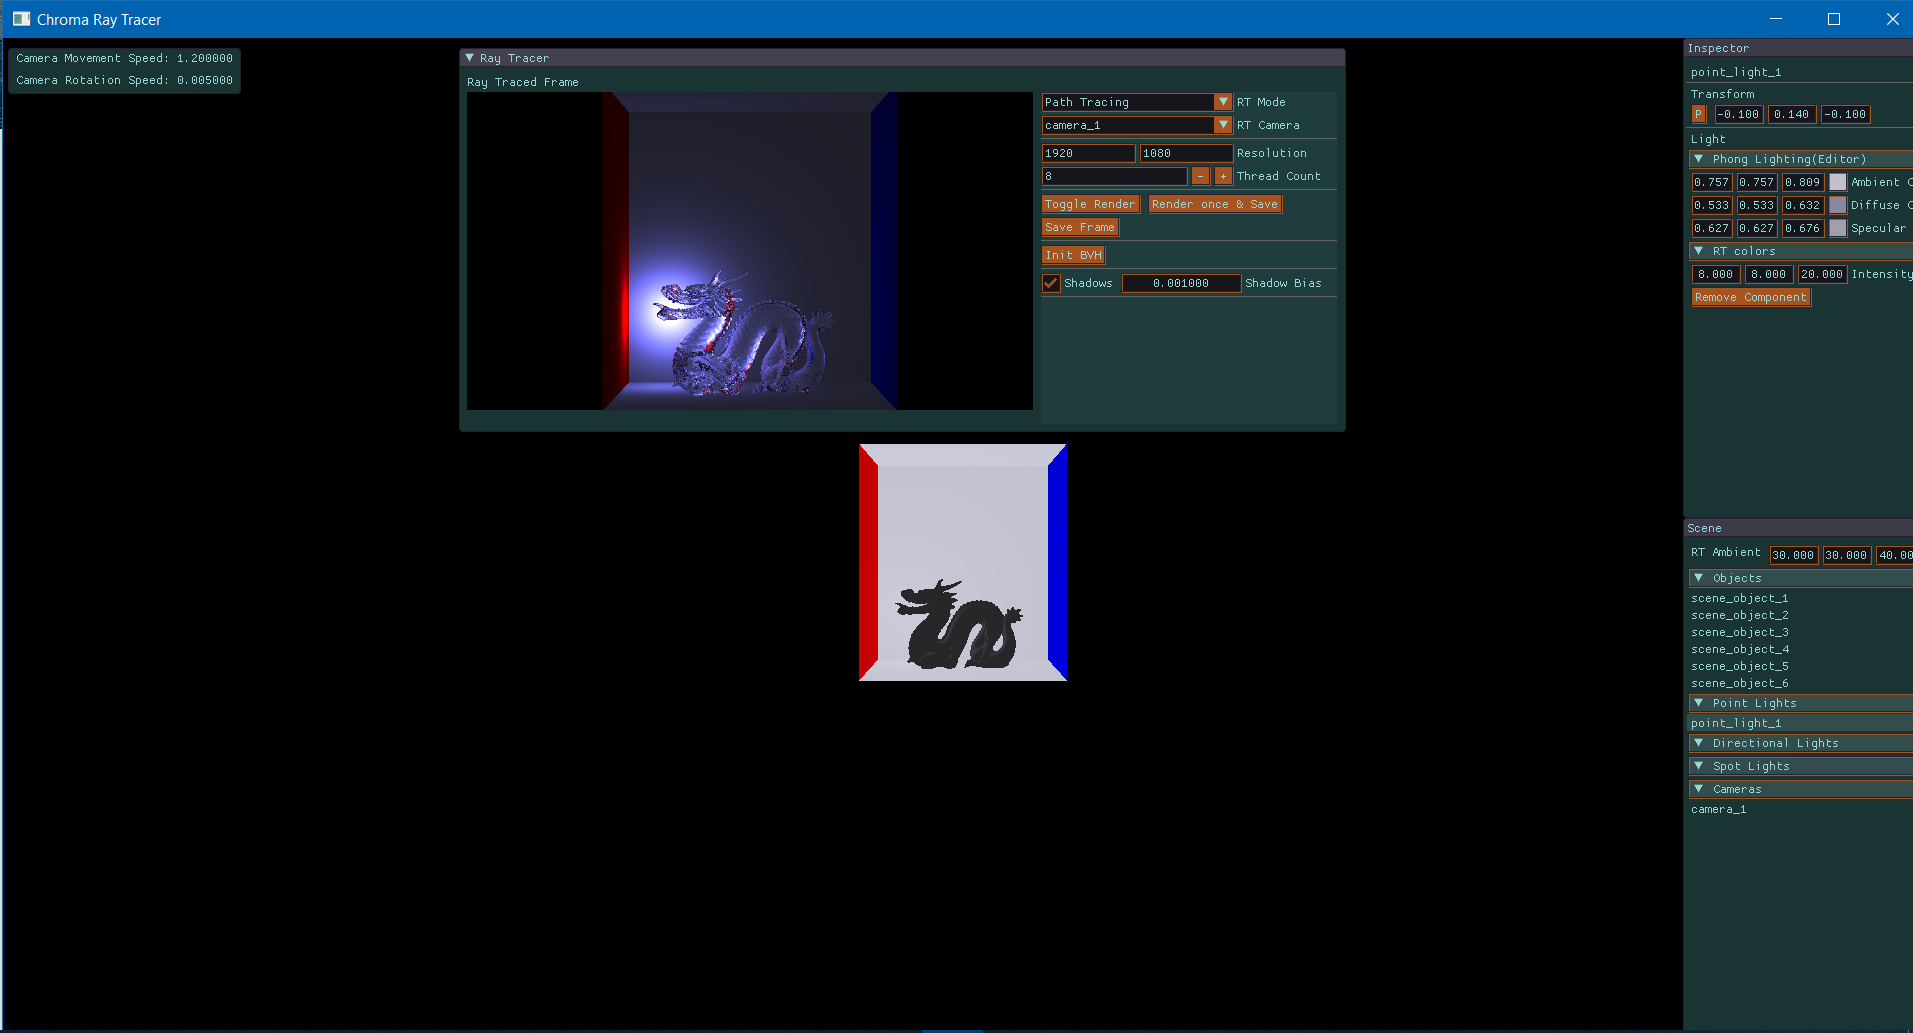
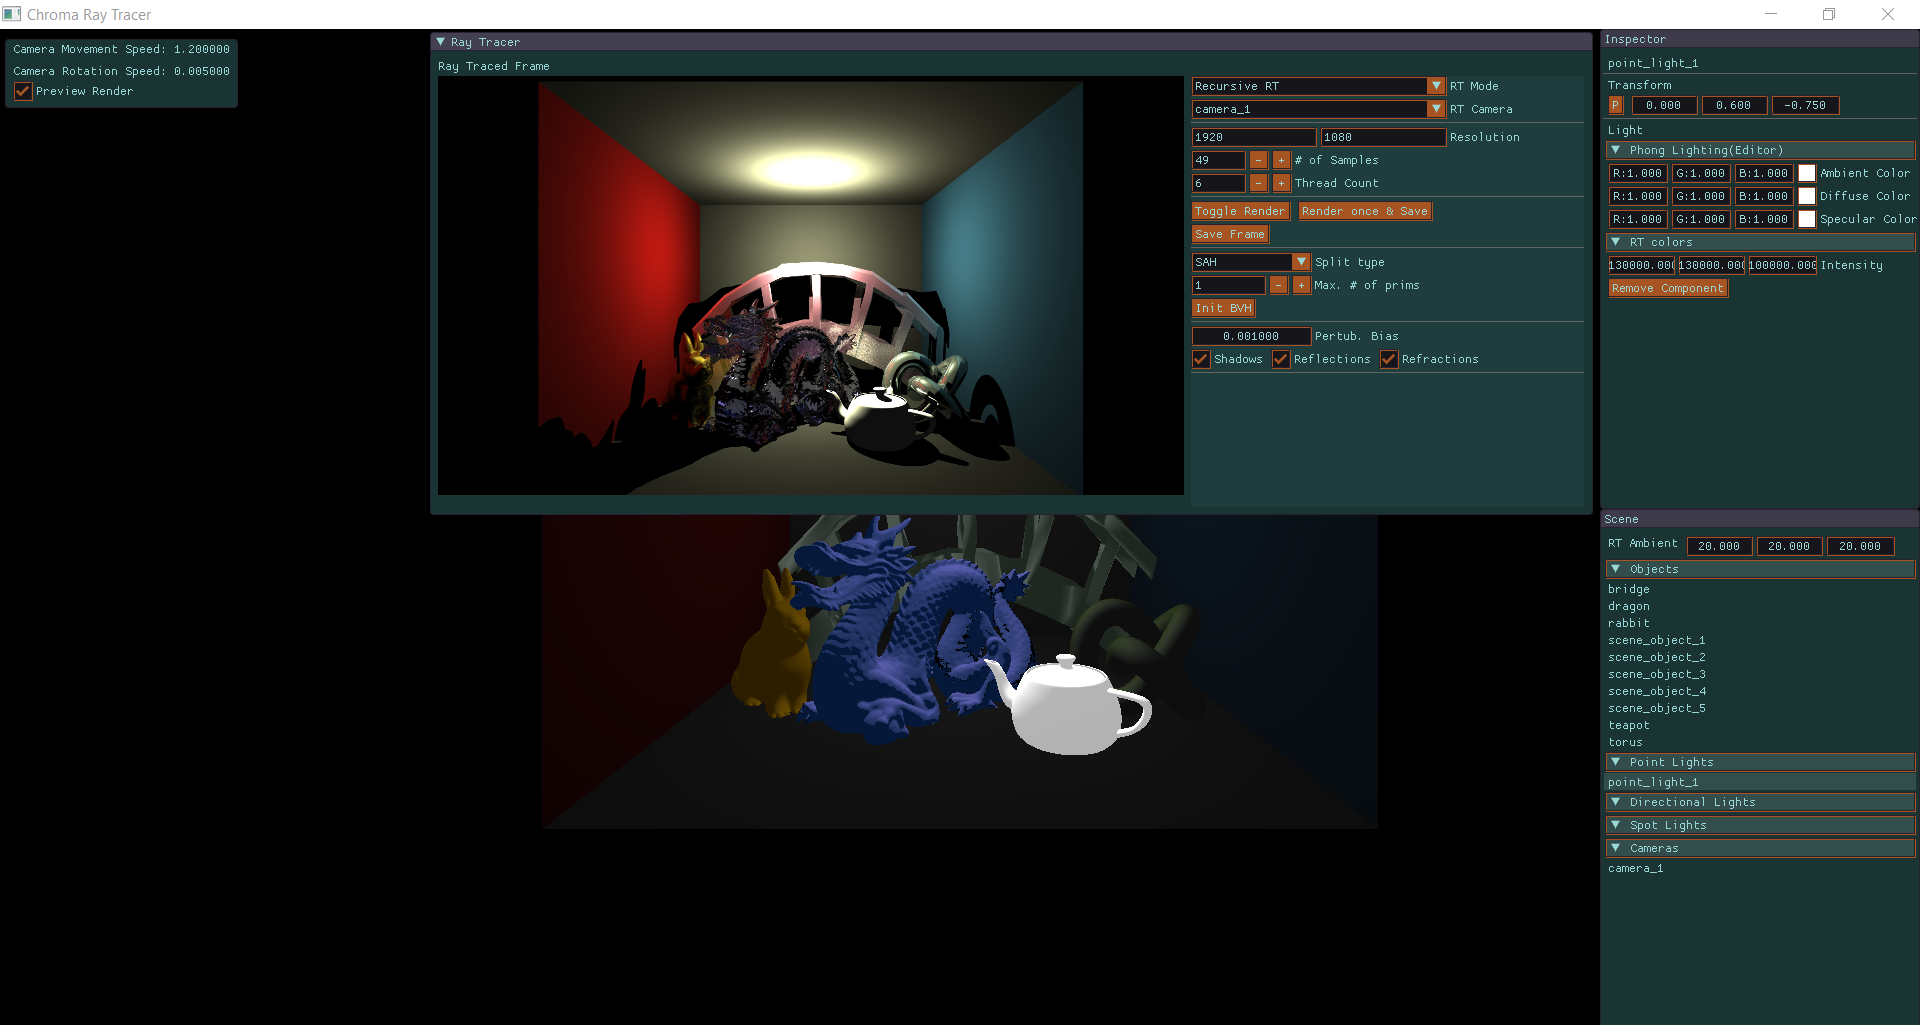
Update Editor preview

diff --git a/src/ray-tracer/main/EntryPoint.cpp b/src/ray-tracer/main/EntryPoint.cpp
@@ -32,7 +32,7 @@ int main()
 	Chroma::Shader* shader = Chroma::Shader::ReadAndBuildShaderFromFile("../../assets/shaders/phong.vert", "../../assets/shaders/phong.frag");
 
 	std::shared_ptr<Chroma::Scene> scene;
-	scene = std::make_shared<Chroma::Scene>(*(Chroma::AssetImporter::LoadSceneFromXML(shader, "../../assets/scenes/hw3/spheres_dof.xml")));
+	scene = std::make_shared<Chroma::Scene>(*(Chroma::AssetImporter::LoadSceneFromXML(shader, "../../assets/scenes/additional/cornellbox.xml")));
 	//init editor
 	Chroma::Editor editor(&window, scene.get());
 
@@ -80,10 +80,21 @@ int main()
 	std::shared_ptr<Chroma::SceneObject> torus = std::make_shared<Chroma::SceneObject>(o_mesh, "torus");
 	torus->SetMaterial(mat4);
 
+	//Model import
+	auto b_mesh = std::make_shared<Chroma::Mesh>(*Chroma::AssetImporter::LoadMeshFromOBJ("../../assets/models/bridge.obj"));
+	std::shared_ptr<Chroma::Dielectric> mat5 = std::make_shared<Chroma::Dielectric>("u_Material",
+		glm::vec3({ 0.0f, 0.0f, 0.0f }), glm::vec3({ 0.0f, 0.0f, 0.0f }), glm::vec3({ 0, 0, 0 }), 1.0f);
+	mat5->m_refraction_ind = 3.9690;
+	mat5->m_absorption_coeff = { 0.0, 0.021427, 0.021427 };
+	std::shared_ptr<Chroma::SceneObject> bridge = std::make_shared<Chroma::SceneObject>(b_mesh, "bridge");
+	bridge->SetMaterial(mat5);
+	bridge->SmoothNormals();
+
 	scene->AddSceneObject(dragon->GetName(), dragon);
 	scene->AddSceneObject(teapot->GetName(), teapot);
 	scene->AddSceneObject(rabbit->GetName(), rabbit);
 	scene->AddSceneObject(torus->GetName(), torus);
+	scene->AddSceneObject(bridge->GetName(), bridge);
 
 	glEnable(GL_DEPTH_TEST);
 
@@ -123,6 +134,12 @@ int main()
 	torus->SetScale({ 1.3, 1.3, 1.3 });
 	torus->SetPosition({ 6.800, -7.9, 2.5 });
 	torus->SetRotation({ 27, -12,0 });
+
+	bridge->SetScale({ 0.01, 0.05, 0.03 });
+	bridge->SetPosition({ 0.3, -9.6,-4.5 });
+	bridge->SetRotation({ 0, 90,0 });
+
+
 	/*glm::vec4 dir({ 0.0f, 0.0f, 0.0f, 1.0f });
 
 	teapot->SetScale({ 10.0f, 10.0f, 10.0f });
